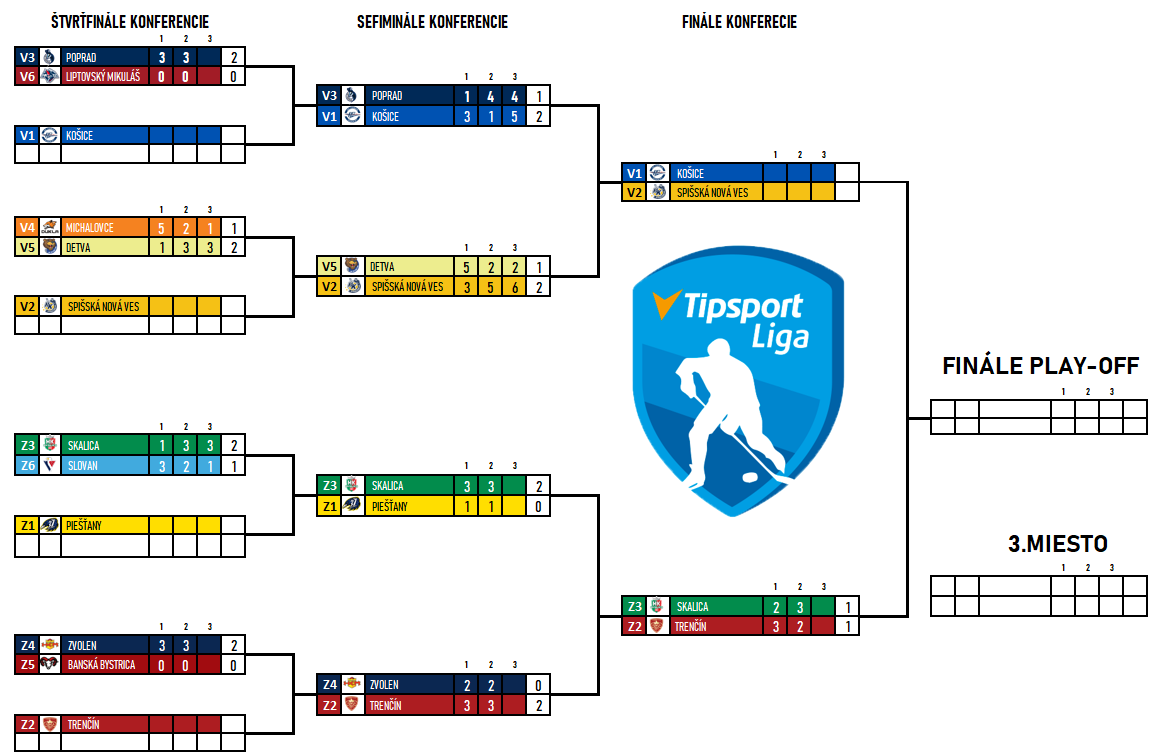
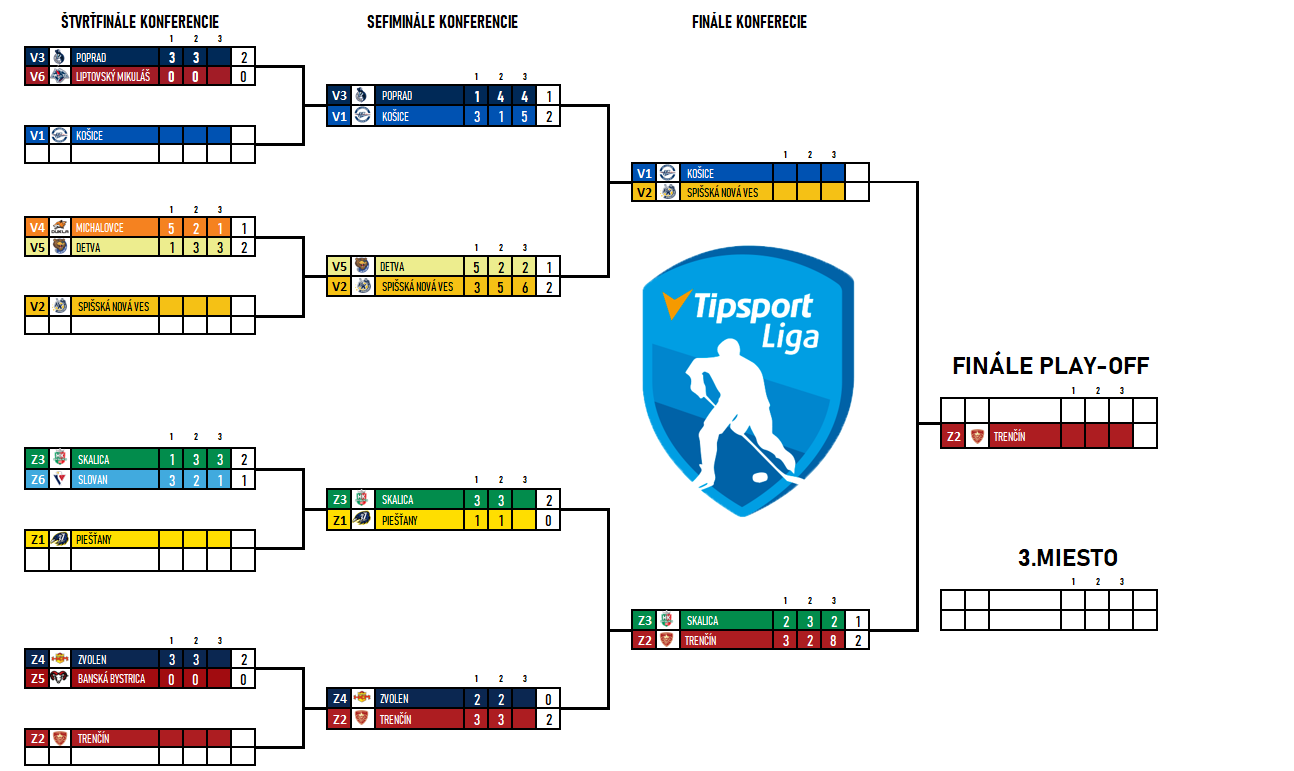
ss

diff --git a/play-off-rozpis.html b/play-off-rozpis.html
@@ -69,8 +69,8 @@
      
       <tr>
         <td class="datum">1.zápas 1.8.2020</td>
-        <td class="logo"></td>
-        <td class="club-name"></td>
+        <td class="logo"><img src="images/trencin.png" height="19"></td>
+        <td class="club-name"><a href="https://www.hockeyarena.net/sk/index.php?p=public_team_info_basic.php&team_id=29244" style="text-decoration-style: none; color: black;">Trenčín</a></td>
         <td class="match"><b>:</b></td>
         <td class="logo"></td>
         <td class="club-name"></td>
@@ -80,8 +80,8 @@
         <td class="logo"></td>
         <td class="club-name"></td>
         <td class="match"><b>:</b></td>
-        <td class="logo"></td>
-        <td class="club-name"></td>
+        <td class="logo"><img src="images/trencin.png" height="19"></td>
+        <td class="club-name"><a href="https://www.hockeyarena.net/sk/index.php?p=public_team_info_basic.php&team_id=29244" style="text-decoration-style: none; color: black;">Trenčín</a></td>
       </tr>
       <tr>
         <td class="datum" style="border-bottom: 2px solid black;">3.zápas 5.8.2020</td>
@@ -249,7 +249,7 @@
         <td class="naplanovane" class="datum" style="border-bottom: 2px solid black;">3.zápas 25.7.2020</td>
         <td class="logo" style="border-bottom: 2px solid black;"><img src="images/trencin.png" height="19"></td>
         <td class="club-name" style="border-bottom: 2px solid black;"><a href="https://www.hockeyarena.net/sk/index.php?p=public_team_info_basic.php&team_id=29244" style="text-decoration-style: none; color: black;">Trenčín</a></td>
-        <td class="match" style="border-bottom: 2px solid black;"><b></b></td>
+        <td class="match" style="border-bottom: 2px solid black;"><b>8:2</b></td>
         <td class="logo" style="border-bottom: 2px solid black;"><img src="images/Skalica.png" height="19"></td>
         <td class="club-name" style="border-bottom: 2px solid black;"><a href="https://www.hockeyarena.net/sk/index.php?p=public_team_info_basic.php&team_id=2991" style="text-decoration-style: none; color: black;">Skalica</a></td>
       </tr>
